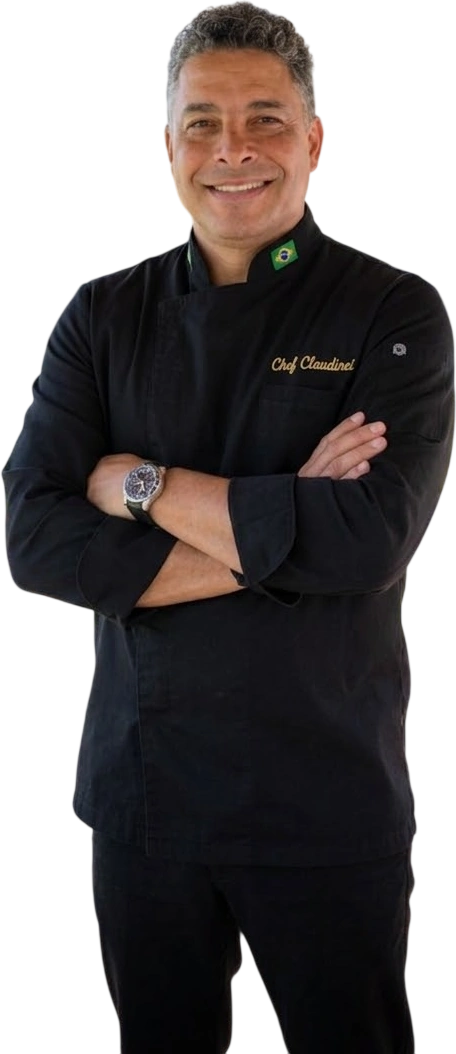
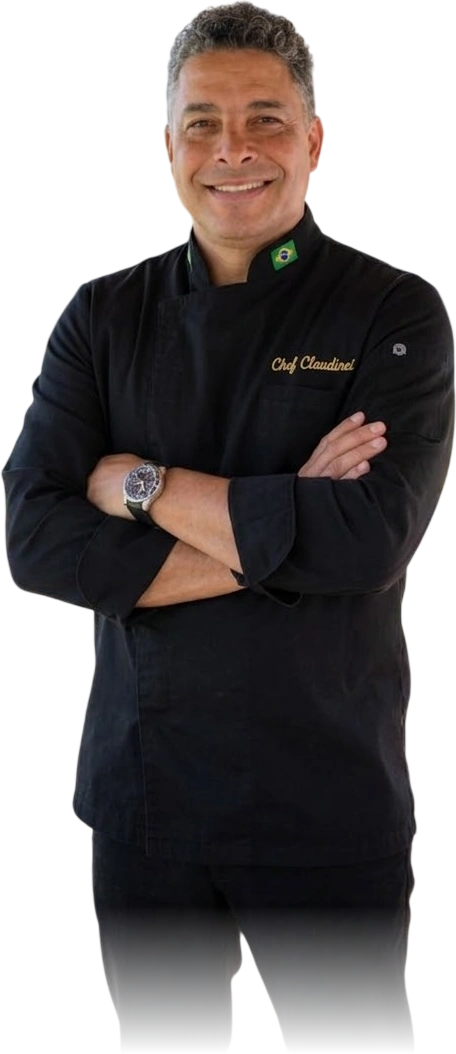
fix: bake the cut-out fade into the alpha so the mask stops clipping the shadow

Changed region(s): [[0.2149, 0.8501, 0.9211, 1.0]]

diff --git a/index.html b/index.html
@@ -156,12 +156,14 @@ section { padding: 6.5rem 2rem; }
    behind it so the figure reads as lit by the fire the rest of the page sells. */
 .about-imgs .chef-cutout { bottom: 0; left: 0; right: 0; margin-inline: auto; width: auto; height: 100%; max-width: 78%;
   object-fit: contain; border: 0; z-index: 2;
-  filter: drop-shadow(0 18px 30px rgba(0,0,0,0.6));
-  /* The source photo ends in a straight cut across the coat. Fading the last
-     14% dissolves that edge into the background instead of announcing it. A
-     browser without mask support just shows the hard cut - the old look. */
-  -webkit-mask-image: linear-gradient(to bottom, #000 86%, transparent 100%);
-          mask-image: linear-gradient(to bottom, #000 86%, transparent 100%); }
+  filter: drop-shadow(0 18px 30px rgba(0,0,0,0.6)); }
+/* The bottom fade that dissolves the photo's straight cut is baked into the
+   asset's alpha, NOT a mask-image here. A mask clips to the border box, and the
+   drop-shadow above spills past it: the mask guillotined that soft shadow into
+   a hard vertical line down both sides of the image box. Invisible while the
+   cut-out was wide enough to fill its box, obvious the moment a narrower
+   full-length figure left room for the shadow to spill. Baked in, there is no
+   box to clip against, and a browser without mask support gets the same fade. */
 .chef-glow { position: absolute; bottom: 4%; left: 0; right: 0; margin-inline: auto; width: 76%; aspect-ratio: 1; z-index: 1; pointer-events: none; }
 .chef-glow::after { content: ''; position: absolute; inset: 0; border-radius: 50%;
   background: radial-gradient(circle, rgba(224,181,90,0.42) 0%, rgba(201,151,58,0.18) 45%, rgba(201,151,58,0) 72%);
